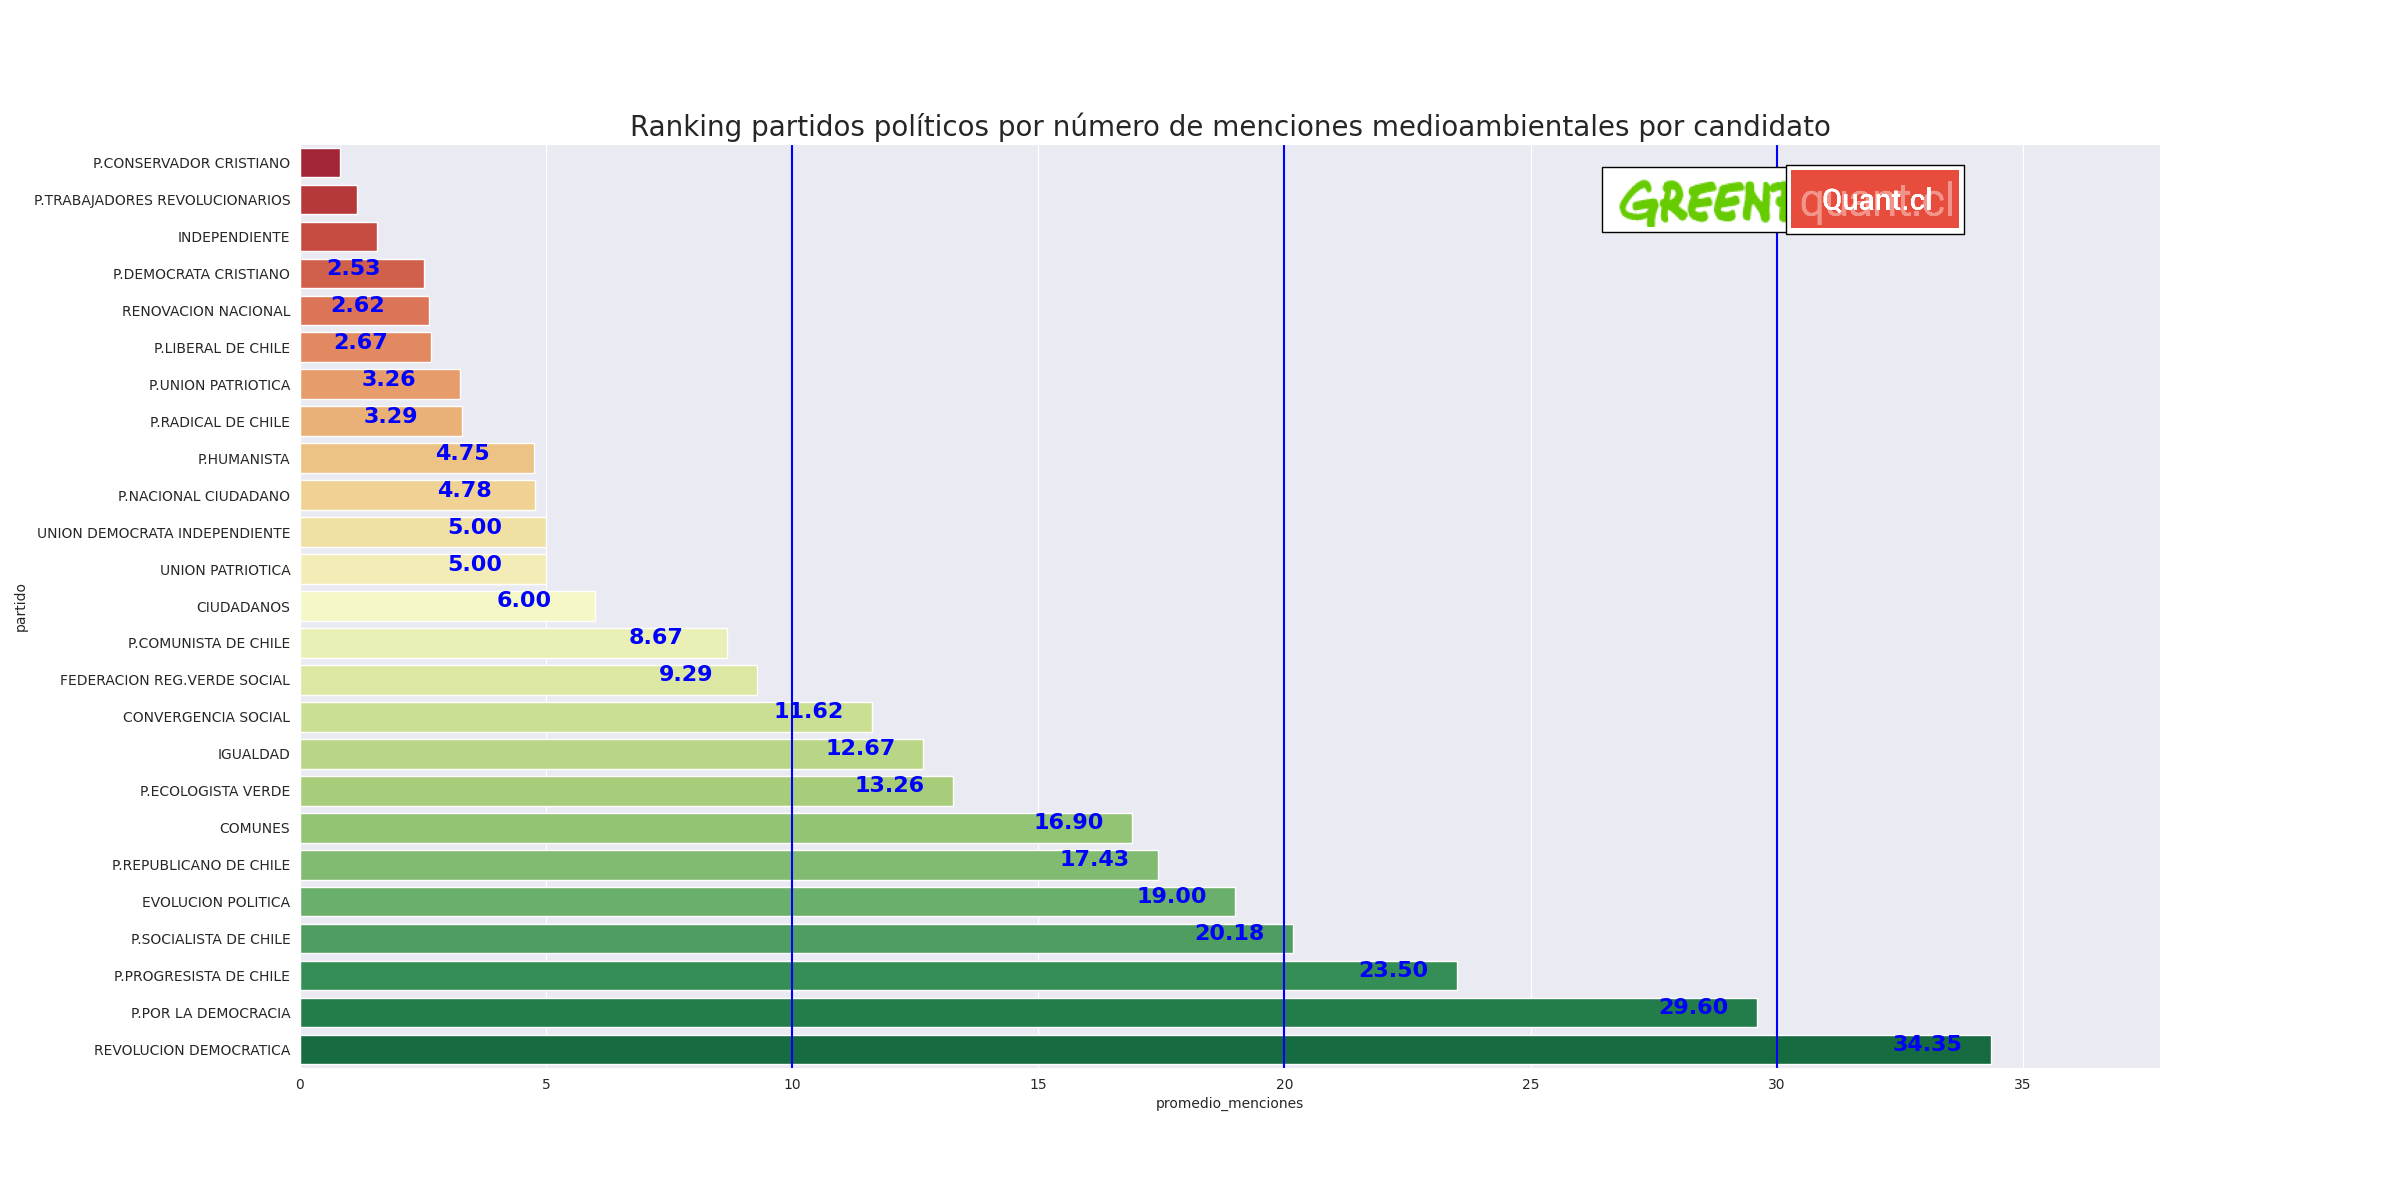
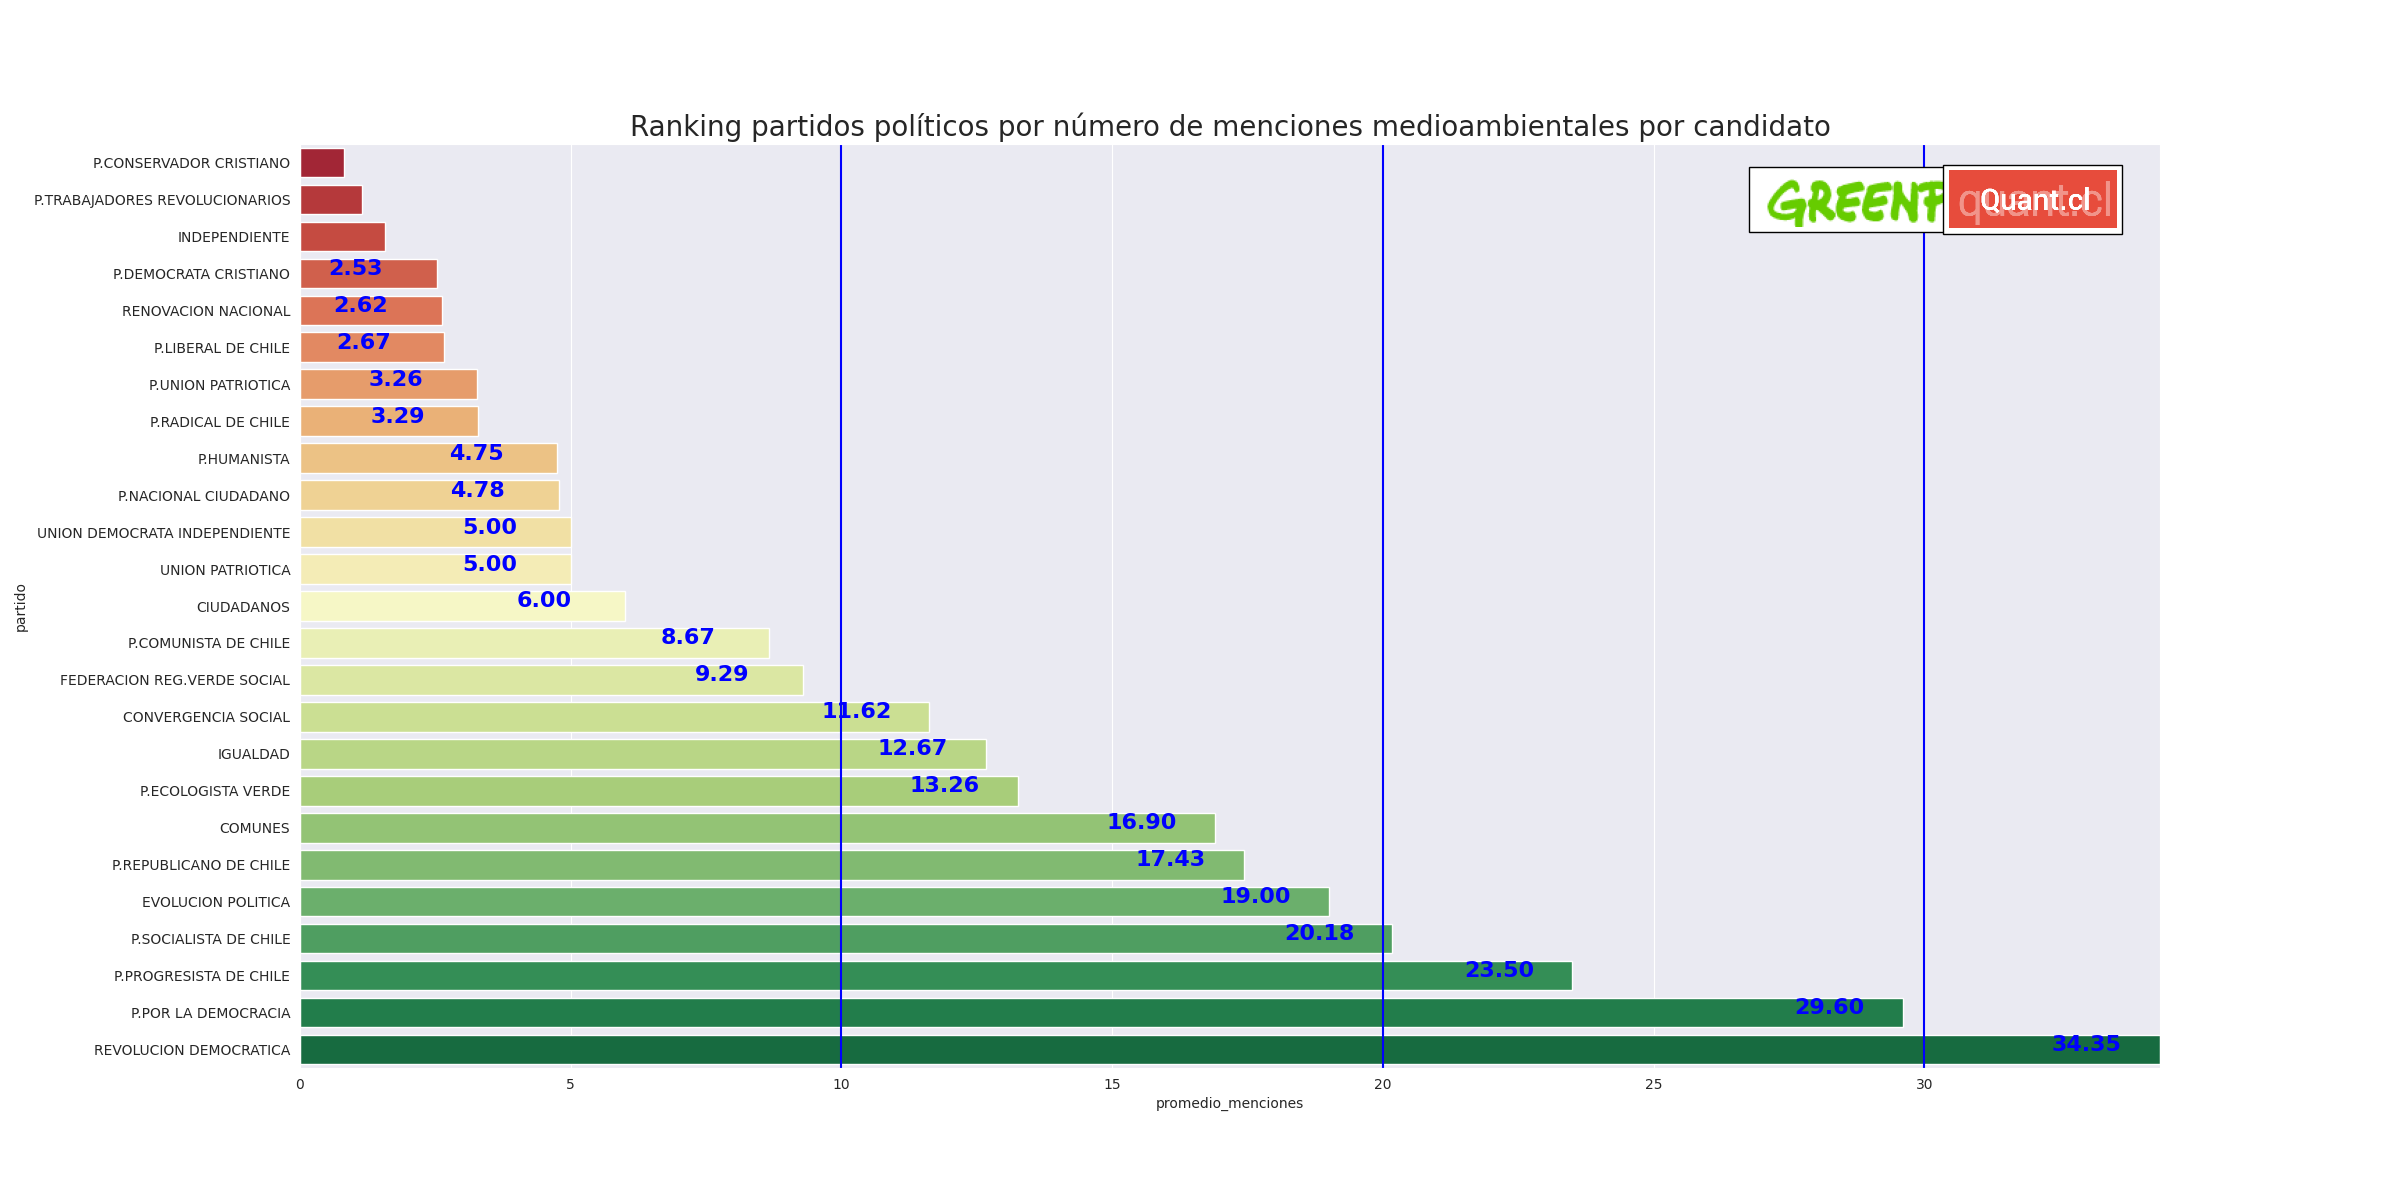
normalizado ranking partidos

diff --git a/plotters.py b/plotters.py
@@ -124,8 +124,6 @@ if doPlotD:
 
         psdf = dldf.drop('largo', axis=1)
 
-
-
         for col in psdf.columns:
             psdf[col]/=dldfs.values
 
@@ -255,7 +253,7 @@ plt.close()
 ##########schtoops###########
 for tema in temas:
     tdf=xdf[['lista',tema]]
-    tdf['lista']= tdf.lista.apply(fix_list)
+    tdf['lista'] = tdf['lista'].apply(fix_list) #, in_place=True)
     fig, ax = plt.subplots(1, figsize=(24,12))
     ts = xdf.groupby('lista').sum().reset_index()
     # ahora los promedios
@@ -365,14 +363,15 @@ ab = AnnotationBbox(imagebox, (32, 1.0))
 ax.add_artist(ab)
 #################
 plt.title('Ranking partidos políticos por número de menciones medioambientales por candidato', size=20)
+plt.autoscale(enable=True, axis='x', tight=True)
 plt.savefig('static/ranking.png')
 plt.close()
 ##################
-ts = tdf.groupby('partido').sum().sum(axis=1).sort_values().reset_index()
-sdf = ts.groupby('partido').size()
-ts.columns = ['partido','promedio_menciones']
-ts = ts[ts.promedio_menciones>0]
-fig,ax = plt.subplots(1, figsize=(24,12))
+#ts = tdf.groupby('partido').sum().sum(axis=1).sort_values().reset_index()
+#sdf = ts.groupby('partido').size()
+#ts.columns = ['partido','promedio_menciones']
+#ts = ts[ts.promedio_menciones>0]
+#fig,ax = plt.subplots(1, figsize=(24,12))
 #sns.barplot(x='promedio_menciones', data=ts.sort_values('promedio_menciones'), y='partido', palette='RdYlGn');
 #for xx in range(200,1000,200):
 #    plt.axvline(x=xx, color='blue')
